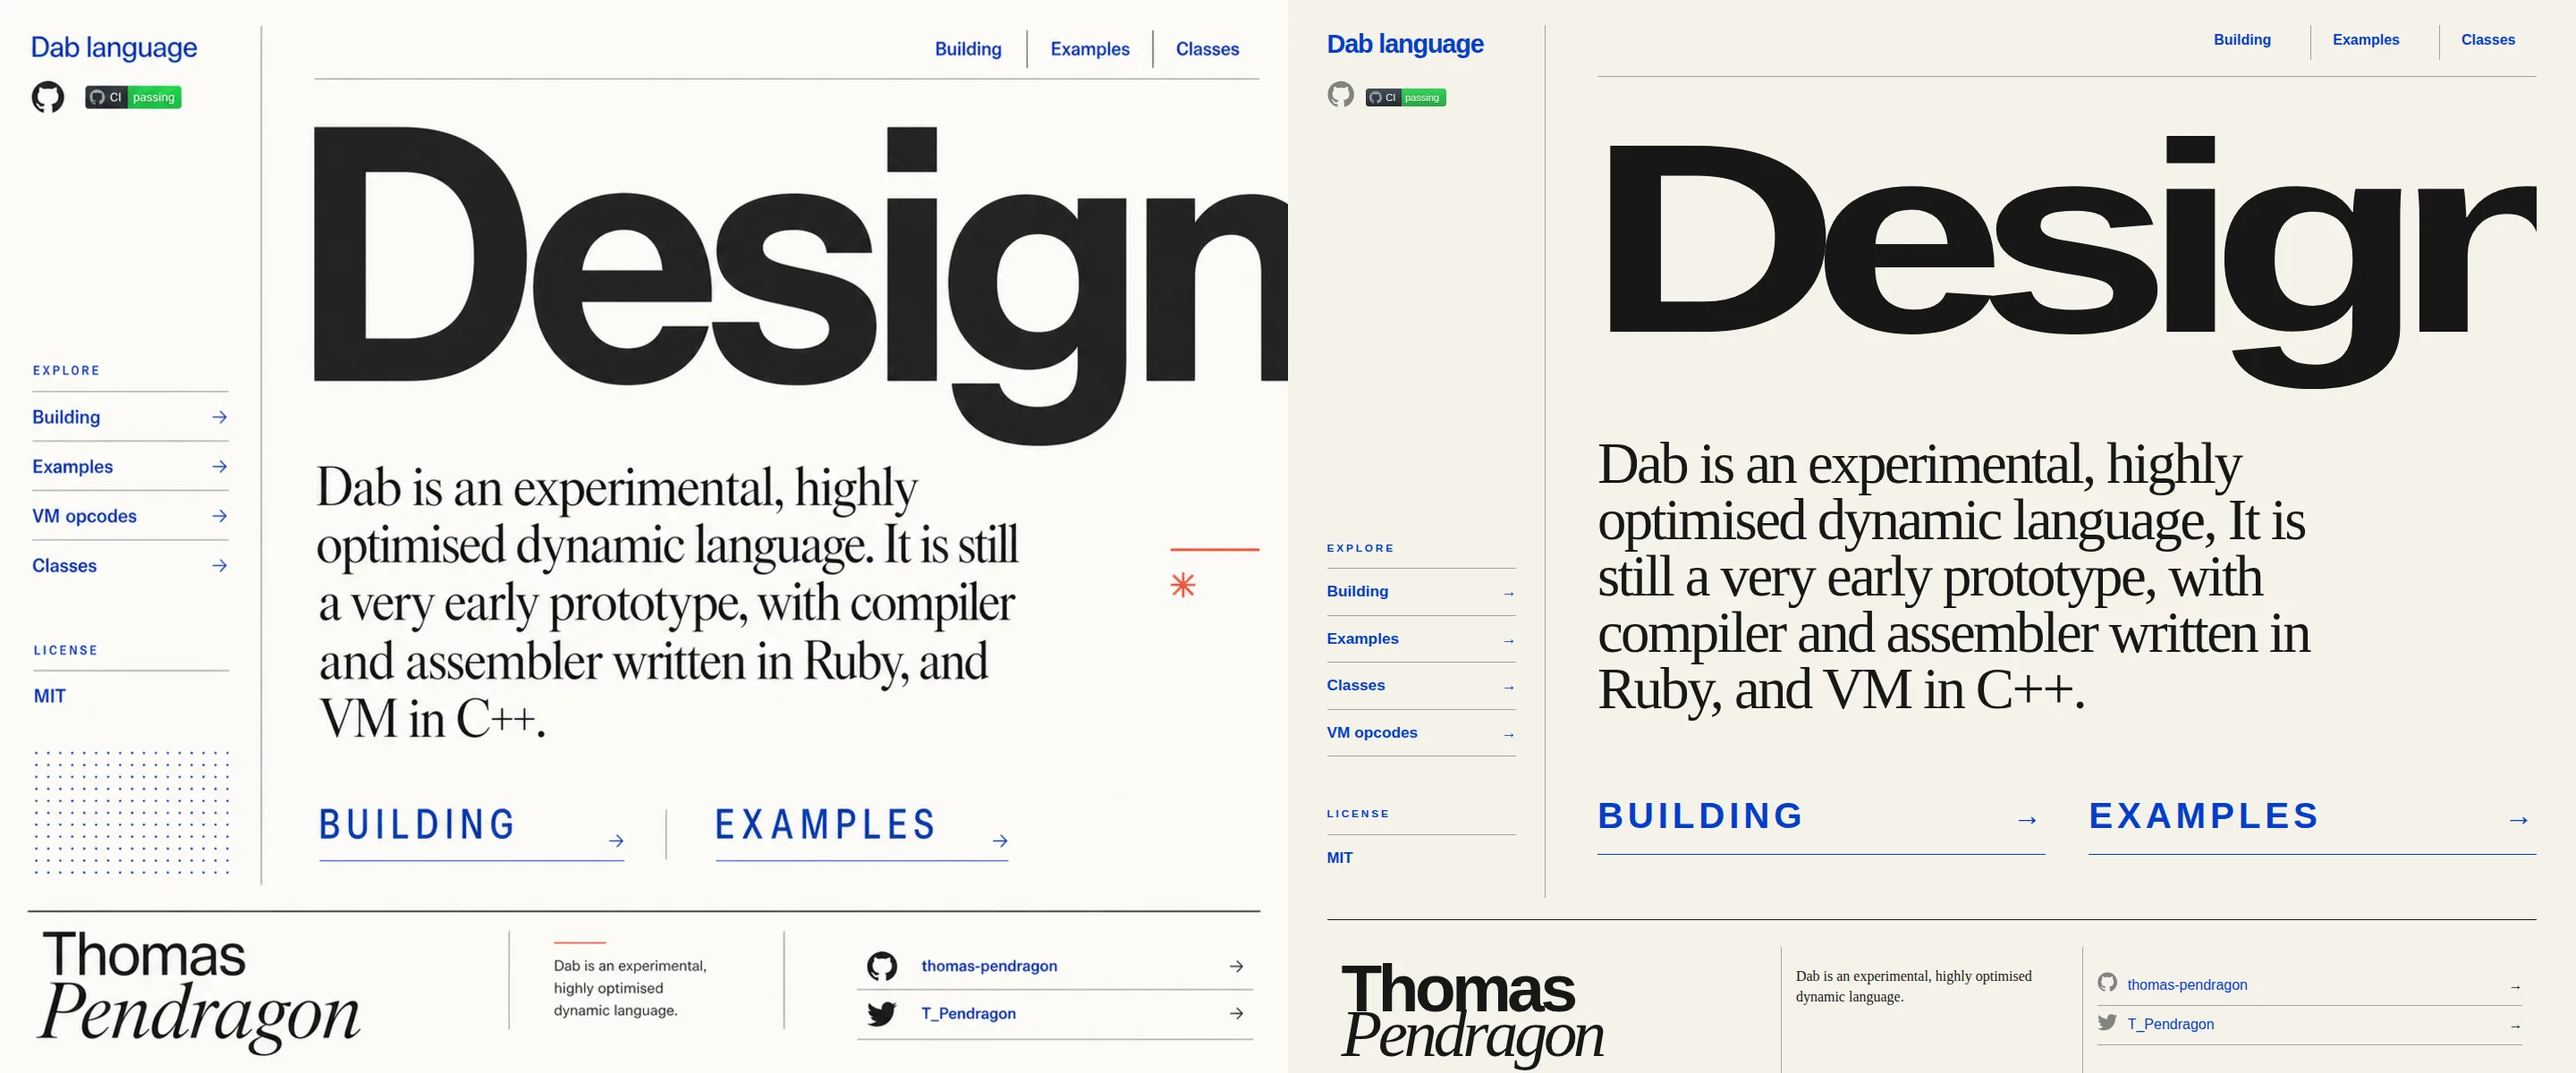
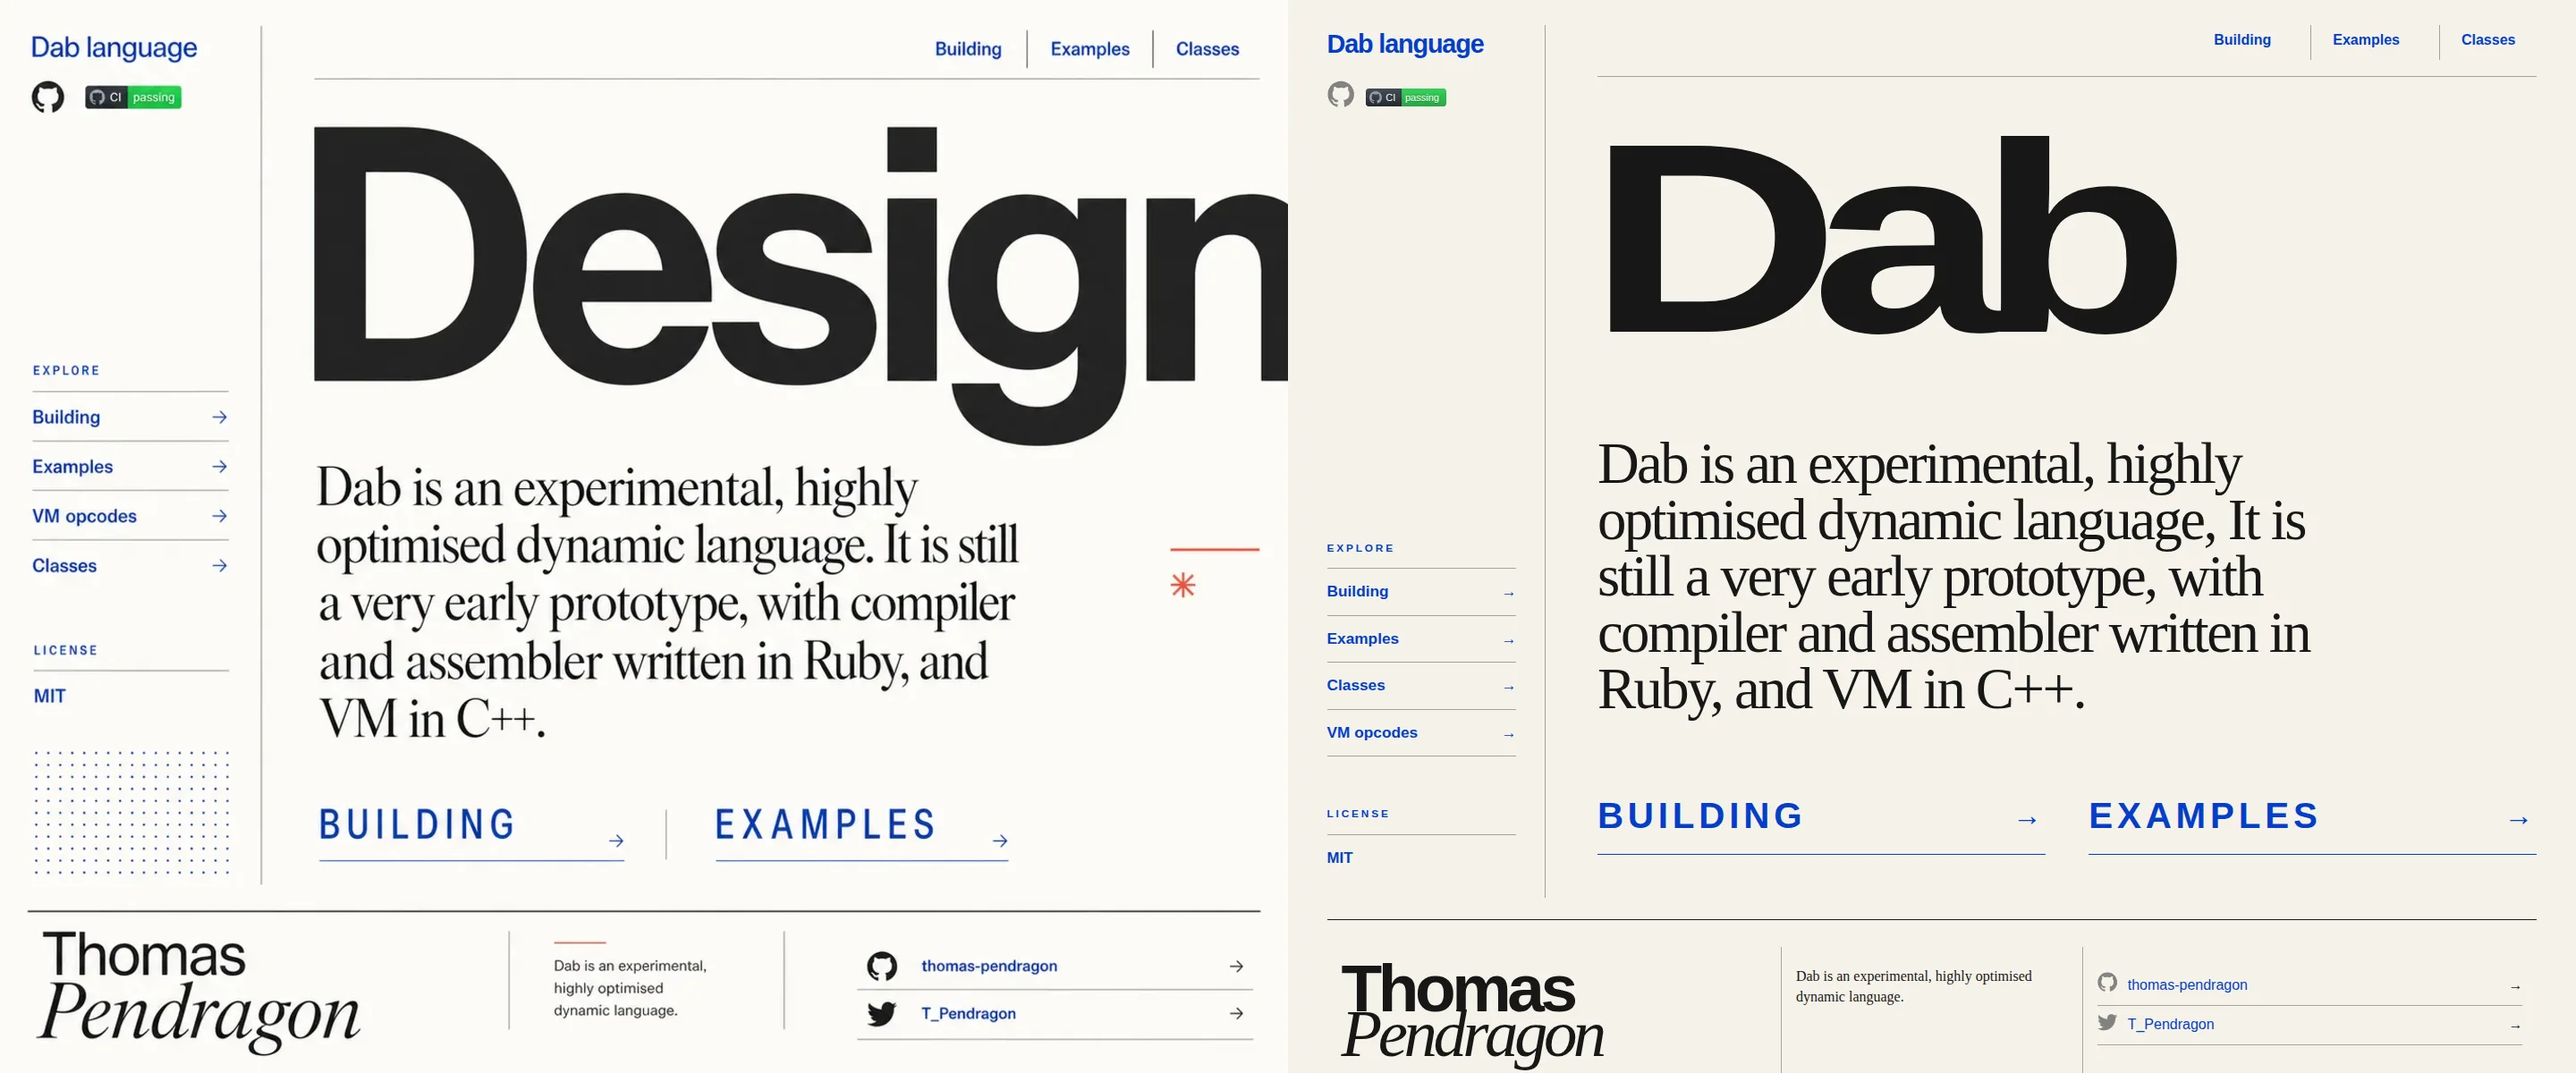
Use the Dab name in the site hero
Replace the visual-direction placeholder with the product name and refresh the desktop, mobile, and comparison evidence.

Changed region(s): [[0.6875, 0.1233, 1.0, 0.37]]

diff --git a/design-qa.md b/design-qa.md
@@ -27,6 +27,10 @@ with CSS drawings or improvised glyphs would violate the asset-fidelity rule.
 The omission is acceptable P3 drift; the typography and editorial hierarchy
 remain the selected direction's primary identity.
 
+The mock's display word `Design` identified the visual direction rather than
+the product. The shipped hero therefore uses the language name `Dab` while
+preserving the selected scale, weight, crop, and editorial composition.
+
 No focused crop was required: the 2880 by 1200 combined comparison keeps the
 display title, body typography, navigation labels, rules, footer signature,
 social marks, and CTA treatment legible at the same time.
@@ -63,7 +67,10 @@ social marks, and CTA treatment legible at the same time.
    mobile content bounds, inline-code wrapping, and scroll-contained code blocks
    were added. Final DevTools readback reports a 390-pixel viewport and
    390-pixel document width.
-3. The post-fix desktop comparison and 390 by 844 home/document captures show no
+3. Owner review identified `Design` as ideation placeholder copy. The hero and
+   document title now use `Dab`, and the desktop and mobile evidence was
+   recaptured against the LAN-served implementation.
+4. The post-fix desktop comparison and 390 by 844 home/document captures show no
    remaining actionable P0, P1, or P2 mismatch.
 
 ## Findings

diff --git a/docs/index.md b/docs/index.md
@@ -1,6 +1,6 @@
 ---
 layout: home
-title: Design
+title: Dab
 ---
 
 Dab is an experimental, highly optimised dynamic language, It is still a very early prototype, with compiler and assembler written in Ruby, and VM in C++.
